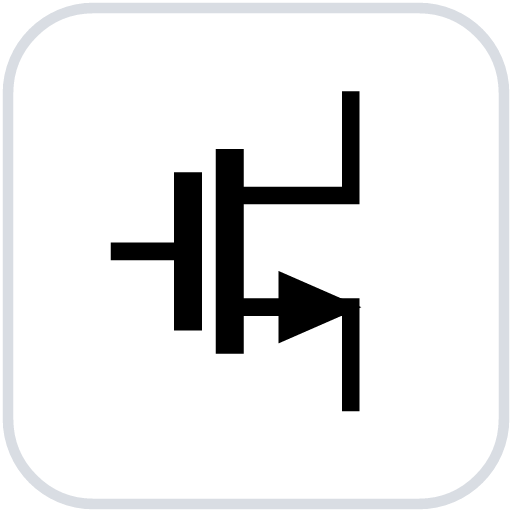
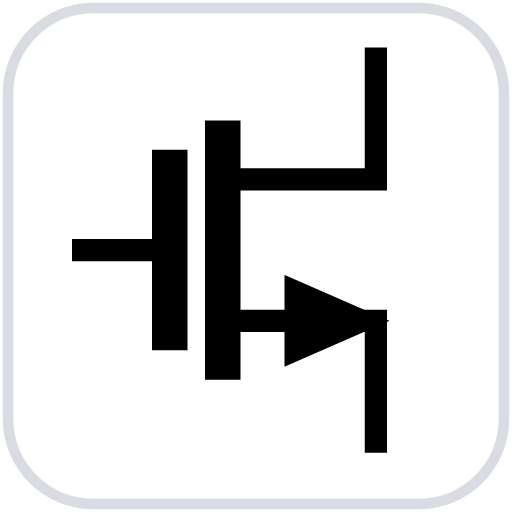
Match the NMOS mark to the reference scale (#972)
Increase the shared component-library NMOS artwork from 75% to the user-approved 95% while retaining the white rounded tile, heavy black strokes, and optical centering. Advance all favicon, header, manifest, and service-worker references to nmos-4 so browsers do not retain the smaller cached mark.

Validation: deterministic PWA generation/check; static/generated/docs/type and Test-Impact contracts; 4,934 unit tests; all 50 Gallery and 131 affected Editor browser workflows; complete release verification; required remote Core and both Browser test shards.

Test-Impact: tests-updated

Changed region(s): [[0.125, 0.0938, 0.7812, 0.9062]]

diff --git a/apps/editor/e2e/gallery.spec.ts b/apps/editor/e2e/gallery.spec.ts
@@ -554,10 +554,10 @@ test("the site lands on the full-screen gallery feed", async ({ page }) => {
   await expect(brand).toHaveCSS("text-decoration-line", "none");
   const brandMark = brand.locator(".app-brand-mark");
   await expect(brandMark).toBeVisible();
-  await expect(brandMark).toHaveCSS("background-image", /icon\.svg\?v=nmos-3/);
+  await expect(brandMark).toHaveCSS("background-image", /icon\.svg\?v=nmos-4/);
   await expect(page.locator('link[rel="icon"]')).toHaveAttribute(
     "href",
-    "/icon.svg?v=nmos-3",
+    "/icon.svg?v=nmos-4",
   );
 
   // With community entries present the wall shows them alone: the bundled

diff --git a/apps/editor/public/sw.js b/apps/editor/public/sw.js
@@ -14,9 +14,9 @@ function shellUrls() {
   return [
     new URL("./", scope).toString(),
     new URL("manifest.webmanifest", scope).toString(),
-    new URL("icon.svg?v=nmos-3", scope).toString(),
-    new URL("icon-192.png?v=nmos-3", scope).toString(),
-    new URL("icon-512.png?v=nmos-3", scope).toString(),
+    new URL("icon.svg?v=nmos-4", scope).toString(),
+    new URL("icon-192.png?v=nmos-4", scope).toString(),
+    new URL("icon-512.png?v=nmos-4", scope).toString(),
   ];
 }
 

diff --git a/apps/editor/e2e/manual-editor.spec.ts b/apps/editor/e2e/manual-editor.spec.ts
@@ -4996,12 +4996,12 @@ test("keeps the production command surface compact and publishes PWA metadata", 
     theme_color: "#2383e2",
     icons: [
       {
-        src: "./icon-192.png?v=nmos-3",
+        src: "./icon-192.png?v=nmos-4",
         sizes: "192x192",
         purpose: "any",
       },
       {
-        src: "./icon-512.png?v=nmos-3",
+        src: "./icon-512.png?v=nmos-4",
         sizes: "512x512",
         purpose: "any",
       },

diff --git a/apps/editor/index.html b/apps/editor/index.html
@@ -5,7 +5,7 @@
     <meta name="viewport" content="width=device-width, initial-scale=1.0" />
     <meta name="theme-color" content="#2383e2" />
     <link rel="manifest" href="%BASE_URL%manifest.webmanifest" />
-    <link rel="icon" href="%BASE_URL%icon.svg?v=nmos-3" />
+    <link rel="icon" href="%BASE_URL%icon.svg?v=nmos-4" />
     <title>Analog Canvas</title>
     <script>
       if (

diff --git a/apps/editor/src/styles.css b/apps/editor/src/styles.css
@@ -231,7 +231,7 @@ body {
   height: 22px;
   flex: 0 0 auto;
   border-radius: 6px;
-  background: #fff url("/icon.svg?v=nmos-3") center / cover no-repeat;
+  background: #fff url("/icon.svg?v=nmos-4") center / cover no-repeat;
   box-shadow: none;
 }
 
